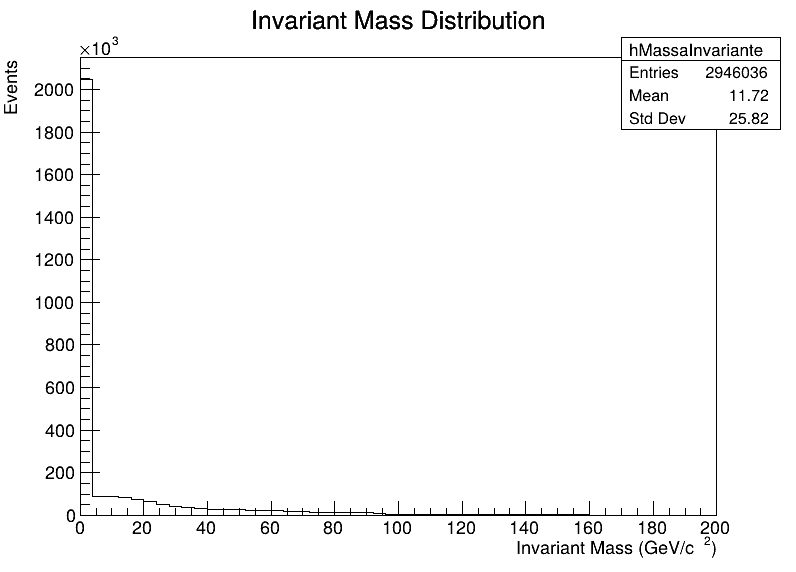
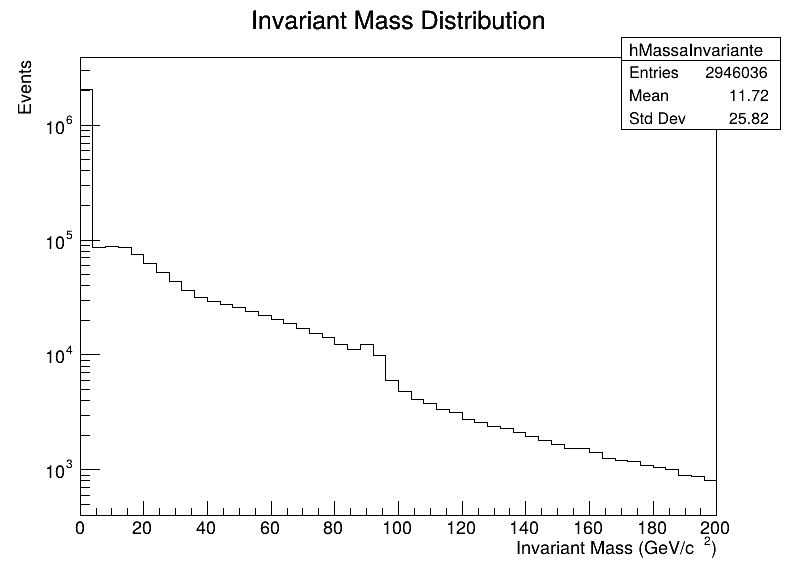
Exercicio aula 5

diff --git a/exercicio5/Data/.ipynb_checkpoints/analise-checkpoint.C b/exercicio5/Data/.ipynb_checkpoints/analise-checkpoint.C
@@ -252,6 +252,7 @@ void analise() {
 
     canvas = new TCanvas("canvasInvariantMass", "Invariant Mass Distribution", 800, 600);
     hMassaInvariante->SetLineColor(kBlack);
+    canvas->SetLogy();
     hMassaInvariante->Draw();
     hMassaInvariante->GetXaxis()->SetTitle("Invariant Mass (GeV/c^{2})");
     hMassaInvariante->GetYaxis()->SetTitle("Events");

diff --git a/exercicio5/Data/analise.C b/exercicio5/Data/analise.C
@@ -252,6 +252,7 @@ void analise() {
 
     canvas = new TCanvas("canvasInvariantMass", "Invariant Mass Distribution", 800, 600);
     hMassaInvariante->SetLineColor(kBlack);
+    canvas->SetLogy();
     hMassaInvariante->Draw();
     hMassaInvariante->GetXaxis()->SetTitle("Invariant Mass (GeV/c^{2})");
     hMassaInvariante->GetYaxis()->SetTitle("Events");
